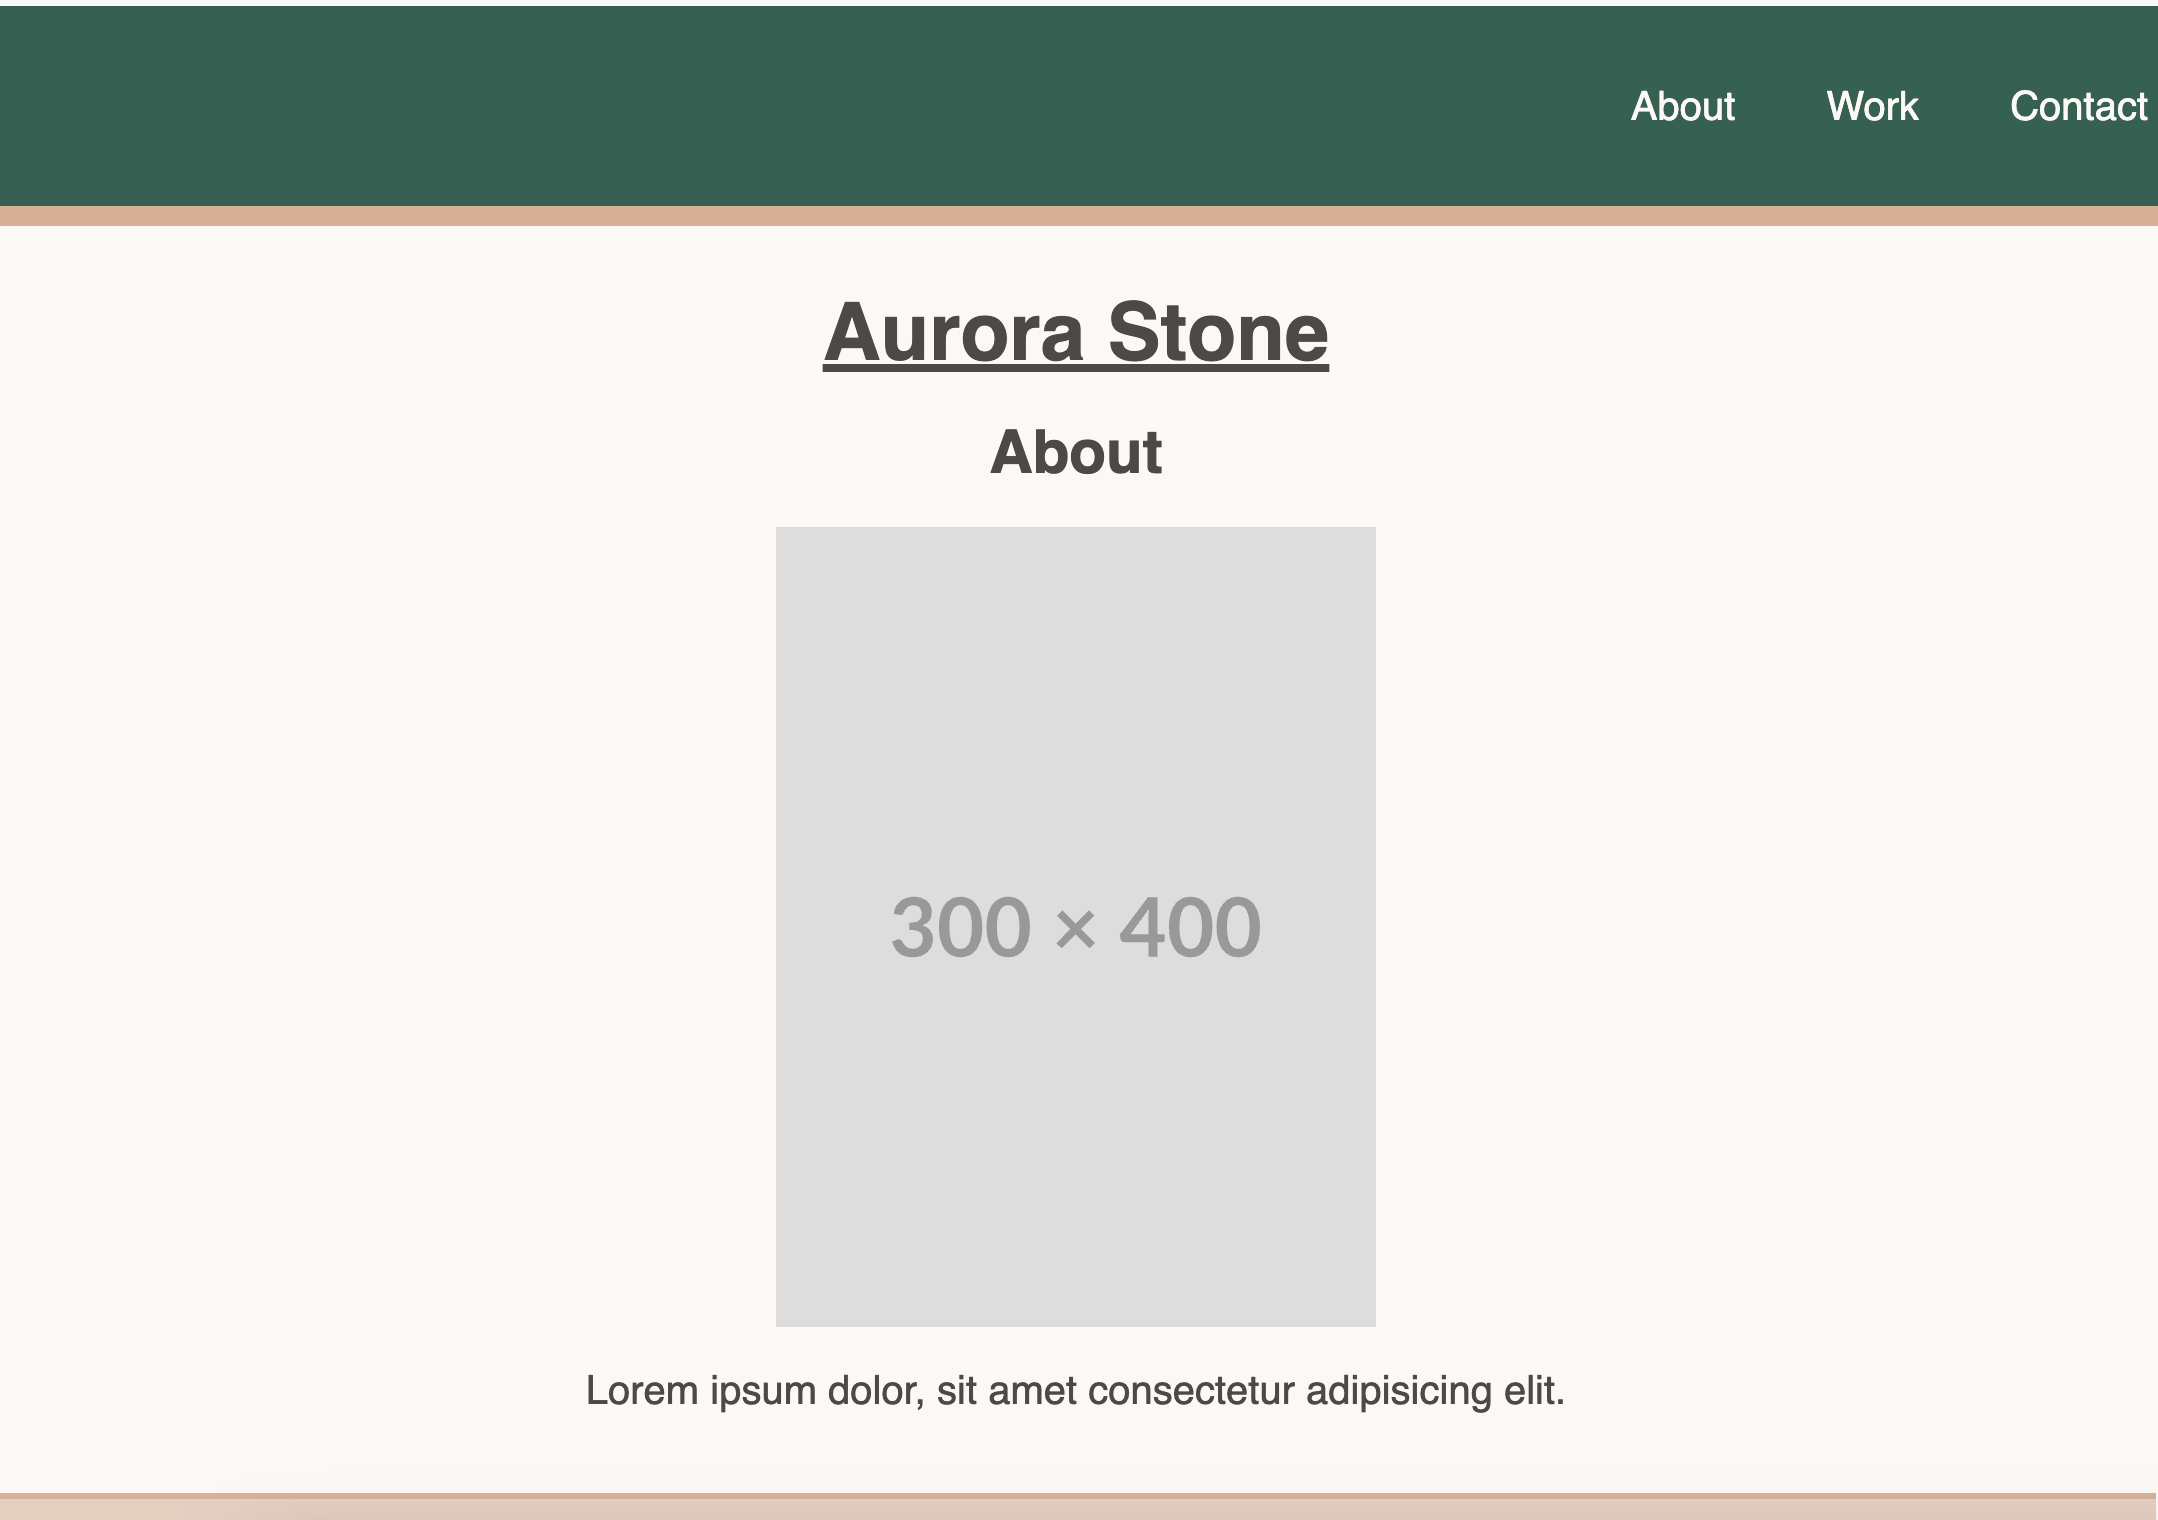
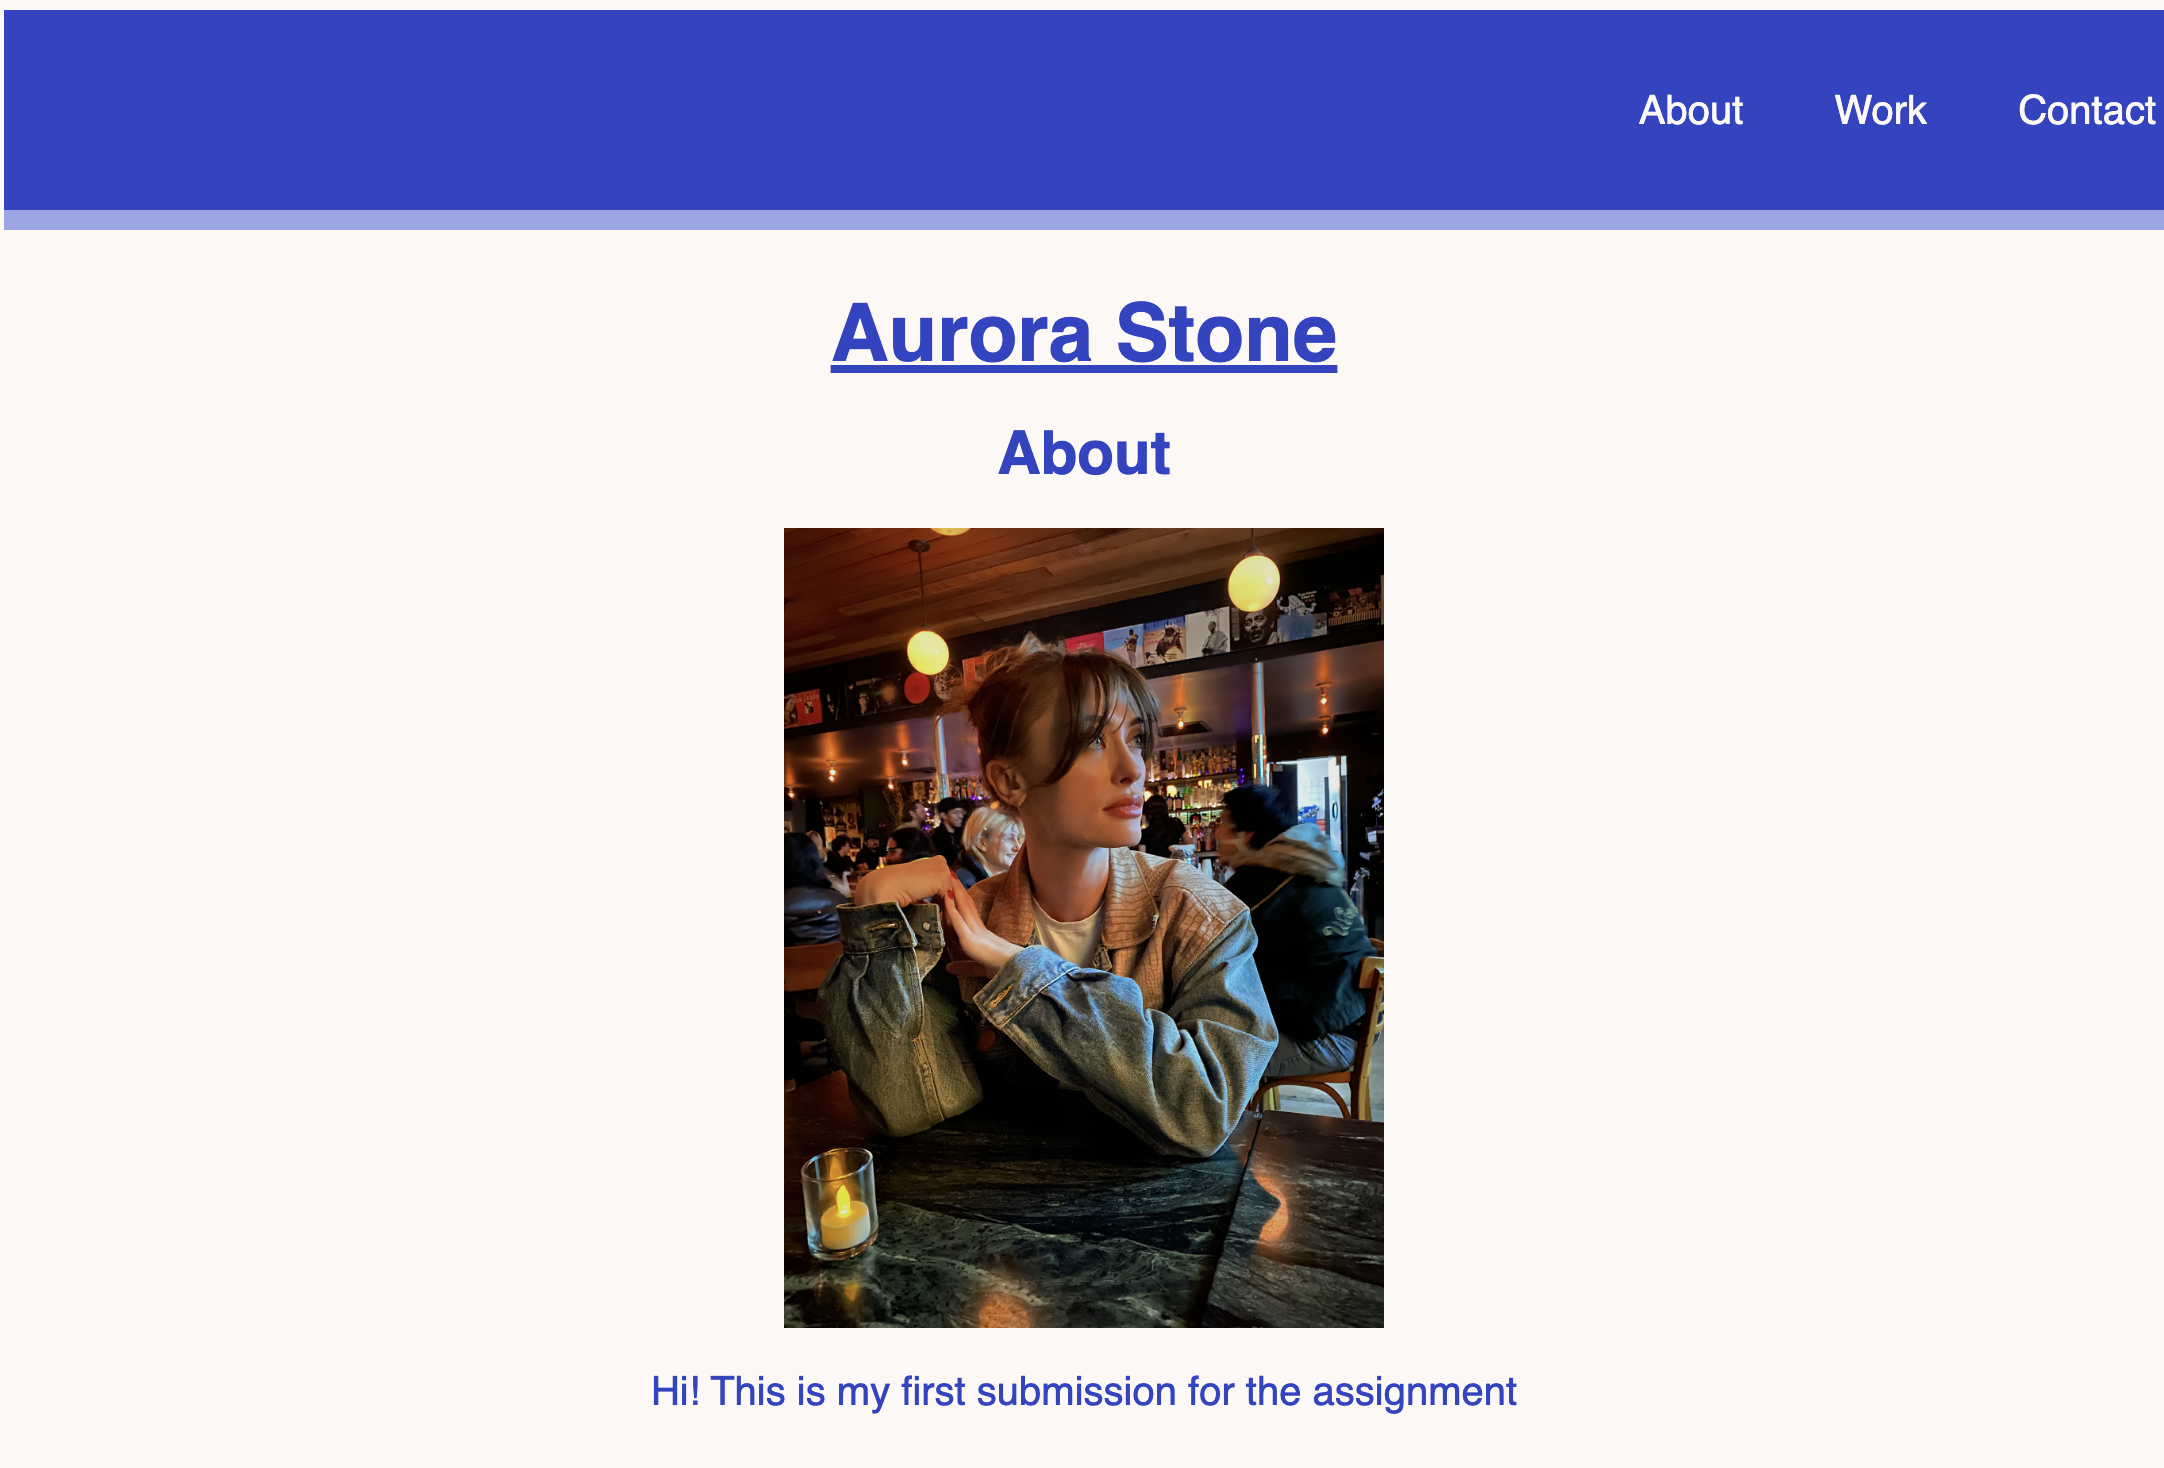
revision 1

diff --git a/style.css b/style.css
@@ -9,7 +9,7 @@
     font-family: "Goudy Bookletter 1911", sans-serif;
     font-size: 20px;
     background-color: #FDF8F5;
-    color: #4F4846;
+    color: #2e45c5;
   }
   
   h1,
@@ -37,12 +37,12 @@
     height: 100px;
     width: 100%;
     line-height: 60px;
-    background-color: #266150;
+    background-color: #2e45c5;
   }
   
   header {
     position: fixed;
-    border-bottom: 10px solid #DDAF94;
+    border-bottom: 10px solid #9aa4e9;
   }
   
   footer {
@@ -65,8 +65,8 @@
   section {
     margin-bottom: 0;
     padding: 20px 10px 40px 10px;
-    border-top: 3px solid #DDAF94;
-    background-color:  #E8CEBF;
+    border-top: 3px solid #9aa4e9;
+    background-color:  #2e45c5;
   }
   
   form {
@@ -74,7 +74,7 @@
     margin: 0 auto;
     width: 500px;
     padding: 10px;
-    border: 5px solid #DDAF94;
+    border: 5px solid #9aa4e9;
     border-radius: 20px;
   }
   
@@ -98,7 +98,7 @@
   button {
     height: 40px;
     width: 120px;
-    background-color: #4F4846;
+    background-color: #FDF8F5;
     color: #FDF8F5;
   }
    

diff --git a/index.html b/index.html
@@ -22,8 +22,8 @@
     <h1 id="name"> Aurora Stone </h1>
     <h2 class="text-center">About</h2>
     <figure>
-        <img id="me" src="https://placehold.co/300x400">
-      <figcaption class="text-center">Lorem ipsum dolor, sit amet consectetur adipisicing elit.</figcaption>
+        <img id="me" src="./me.JPG">
+      <figcaption class="text-center">Hi! This is my first submission for the assignment</figcaption>
     </figure>
     <section id="work">
     <section id="first">

diff --git a/README.md b/README.md
@@ -1,1 +1,22 @@
-# HW2-
+# Portfolio 
+
+
+For this assignment I created a website using semantic HTML and CSS. For the creation initial portfolio, I followed the acceptance criteria. As follows: 
+
+GIVEN I need to sample a potential employee's previous work
+WHEN I load their portfolio
+THEN I am presented with the developer's name, a recent photo or avatar, and links to sections about them, their work, and how to contact them
+WHEN I click one of the links in the navigation
+THEN the UI scrolls to the corresponding section
+WHEN I click on the link to the section about their work
+THEN the UI scrolls to a section with titled images of the developer's applications
+WHEN I am presented with the developer's first application
+THEN that application's image should be larger in size than the others
+WHEN I click on the images of the applications
+THEN I am taken to that deployed application
+WHEN I resize the page or view the site on various screens and devices
+THEN I am presented with a responsive layout that adapts to my viewport
+
+Placeholders were used where necessary. 
+
+![Image of Website](./screenshot.png)
